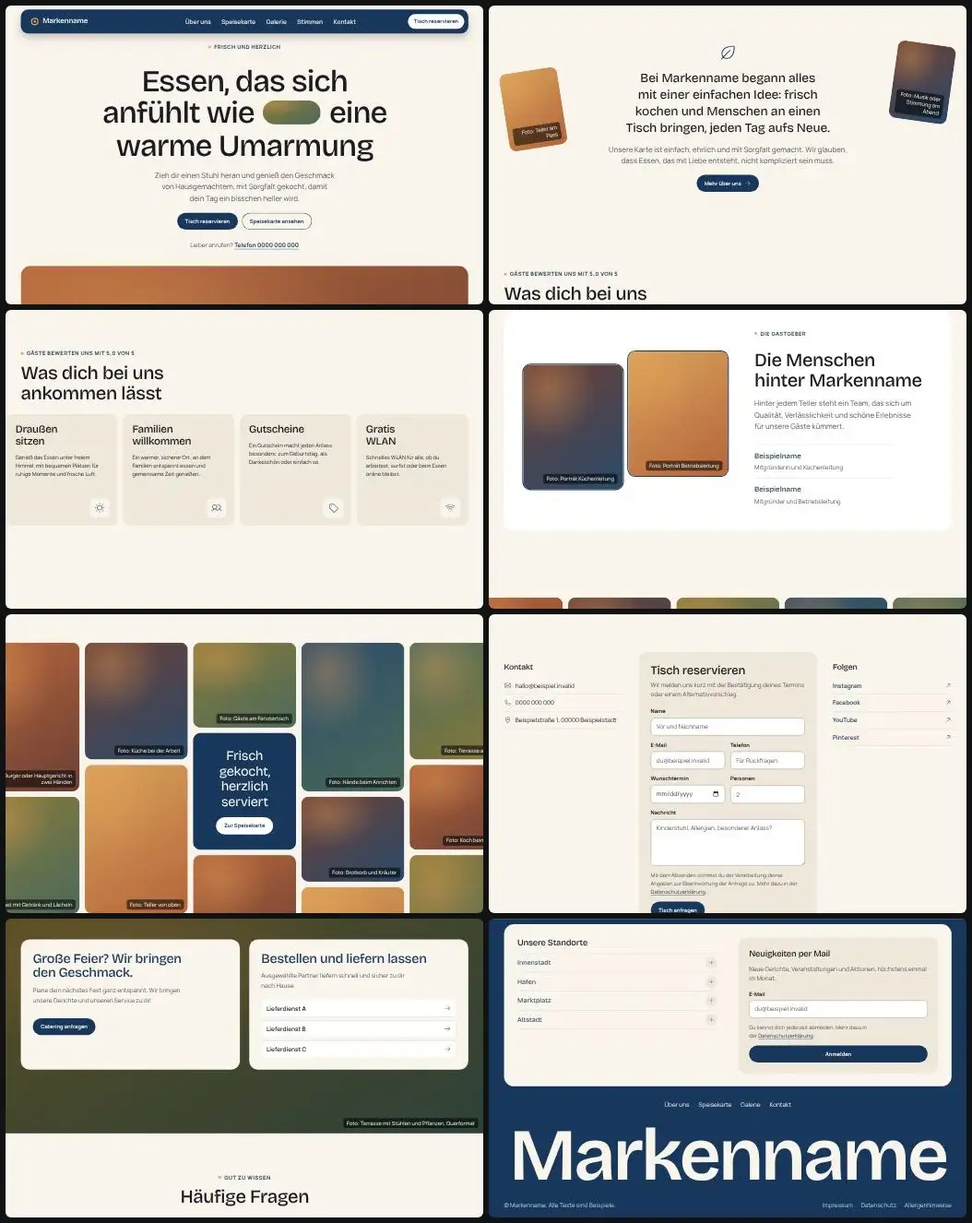
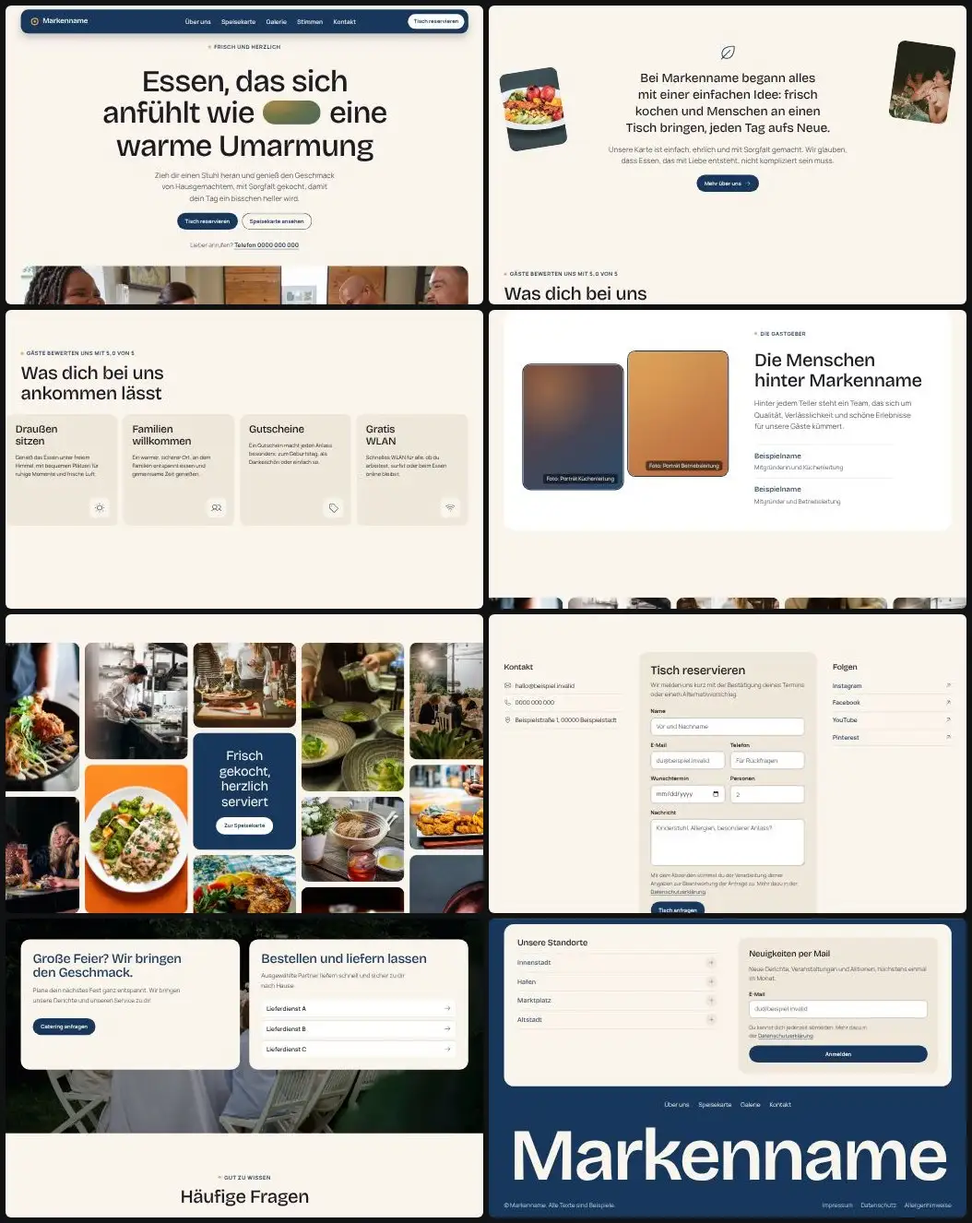
Bibliothek t68: Beispielfotos (Unsplash) eingebaut, Vorschaubilder neu erzeugt
Claude-Session: https://claude.ai/code/session_01DoGuL1bwF3ewggMgZ4Cpvd

diff --git a/skills/webdesign-conversion/assets/vorlagen/bibliothek/t68/index.html b/skills/webdesign-conversion/assets/vorlagen/bibliothek/t68/index.html
@@ -70,7 +70,7 @@
     </div>
     <div class="buehne" data-fortschritt>
       <div class="buehne__klemme">
-        <div class="bild buehne__medium bild--a" data-platzhalter="Foto oder kurzes Video: Gäste lachen am gedeckten Tisch, Querformat" role="img" aria-label="Platzhalter für ein Foto oder Video von Gästen am gedeckten Tisch"></div>
+        <div class="bild buehne__medium bild--a"><img src="bilder/restaurant-gaeste-holztisch.webp" width="1600" height="1067" alt="Gruppe von Gästen sitzt lachend an einem langen Holztisch beim Essen" loading="lazy" decoding="async"></div>
       </div>
     </div>
   </section>
@@ -80,12 +80,12 @@
     <div class="aroma__klemme">
       <h2 id="h-aroma" class="aroma__titel">Frisch, herzlich und mit Leidenschaft</h2>
       <div class="aroma__fotos" aria-hidden="true">
-        <div class="bild aroma__foto aroma__foto--1 bild--a" data-platzhalter="Foto: Hauptgericht in der Nahaufnahme"></div>
-        <div class="bild aroma__foto aroma__foto--2 bild--c" data-platzhalter="Foto: lachender Gast mit Getränk"></div>
-        <div class="bild aroma__foto aroma__foto--3 bild--d" data-platzhalter="Foto: Freunde beim Essen im Freien"></div>
-        <div class="bild aroma__foto aroma__foto--4 bild--b" data-platzhalter="Foto: Beilage im Korb"></div>
-        <div class="bild aroma__foto aroma__foto--5 bild--e" data-platzhalter="Foto: Essen zum Mitnehmen"></div>
-        <div class="bild aroma__foto aroma__foto--6 bild--f" data-platzhalter="Foto: Gericht in zwei Händen"></div>
+        <div class="bild aroma__foto aroma__foto--1 bild--a"><img src="bilder/restaurant-eintopf-nahaufnahme.webp" width="1000" height="667" alt="Schüssel mit warmem Eintopf in der Nahaufnahme" loading="lazy" decoding="async"></div>
+        <div class="bild aroma__foto aroma__foto--2 bild--c"><img src="bilder/restaurant-lachende-frau.webp" width="1000" height="667" alt="Lachende Frau mit einem Getränk in warmem Licht" loading="lazy" decoding="async"></div>
+        <div class="bild aroma__foto aroma__foto--3 bild--d"><img src="bilder/restaurant-tisch-draussen-oben.webp" width="1000" height="667" alt="Runder Tisch im Freien mit Tellern und Getränken von oben" loading="lazy" decoding="async"></div>
+        <div class="bild aroma__foto aroma__foto--4 bild--b"><img src="bilder/restaurant-pommes-korb.webp" width="800" height="640" alt="Korb mit Pommes auf einem dunklen Tisch" loading="lazy" decoding="async"></div>
+        <div class="bild aroma__foto aroma__foto--5 bild--e"><img src="bilder/restaurant-nachos-karton.webp" width="800" height="534" alt="Essen zum Mitnehmen in einer Pappschale" loading="lazy" decoding="async"></div>
+        <div class="bild aroma__foto aroma__foto--6 bild--f"><img src="bilder/restaurant-hand-karton.webp" width="800" height="533" alt="Hände halten eine Pappschale mit Essen" loading="lazy" decoding="async"></div>
       </div>
     </div>
   </section>
@@ -93,8 +93,8 @@
   <!-- 3. Geschichte: Zeichen, zwei Absätze, Knopf, zwei kleine gekippte Fotos am Rand -->
   <section class="sektion geschichte" id="geschichte" aria-labelledby="h-geschichte">
     <div class="wrap geschichte__innen">
-      <div class="bild geschichte__foto geschichte__foto--l bild--b" data-platzhalter="Foto: Teller am Pass" role="img" aria-label="Platzhalter für ein Foto" data-parallax="0.08"></div>
-      <div class="bild geschichte__foto geschichte__foto--r bild--e" data-platzhalter="Foto: Musik oder Stimmung am Abend" role="img" aria-label="Platzhalter für ein Foto" data-parallax="-0.06"></div>
+      <div class="bild geschichte__foto geschichte__foto--l bild--b" data-parallax="0.08"><img src="bilder/restaurant-teller-dunkel.webp" width="1000" height="667" alt="Angerichteter Teller vor dunklem Hintergrund" loading="lazy" decoding="async"></div>
+      <div class="bild geschichte__foto geschichte__foto--r bild--e" data-parallax="-0.06"><img src="bilder/restaurant-abend-stimmung.webp" width="1000" height="667" alt="Gäste sitzen abends an einem Tisch mit Gläsern" loading="lazy" decoding="async"></div>
       <div class="geschichte__text">
         <svg class="geschichte__zeichen" width="56" height="56" aria-hidden="true" focusable="false" data-zeig><use href="#i-leaf"/></svg>
         <h2 id="h-geschichte" class="geschichte__satz" data-zeig>Bei Markenname begann alles mit einer einfachen Idee: frisch kochen und Menschen an einen Tisch bringen, jeden Tag aufs Neue.</h2>
@@ -139,7 +139,7 @@
 
         <li class="gericht" data-kategorie="haupt" data-zeig>
           <article>
-            <div class="bild gericht__bild bild--a" data-platzhalter="Foto: Schmorgericht in der Pfanne" role="img" aria-label="Platzhalter für ein Foto: Geschmorte Rinderbacke">
+            <div class="bild gericht__bild bild--a"><img src="bilder/restaurant-schmorgericht-pfanne.webp" width="800" height="533" alt="Schmorgericht in einer schwarzen Pfanne" loading="lazy" decoding="async">
               <details class="zutaten"><summary>Zutaten<svg width="16" height="16" aria-hidden="true" focusable="false"><use href="#i-plus"/></svg></summary><p>Rinderbacke, Kartoffeln, Karotten, Sellerie, Rotwein, Thymian</p></details>
             </div>
             <div class="gericht__kopf"><h3>Geschmorte Rinderbacke</h3><p class="gericht__preis">21,50 €</p></div>
@@ -151,7 +151,7 @@
         </li>
         <li class="gericht" data-kategorie="haupt" data-zeig>
           <article>
-            <div class="bild gericht__bild bild--b" data-platzhalter="Foto: Lachsfilet mit Gemüse" role="img" aria-label="Platzhalter für ein Foto: Gebratener Lachs">
+            <div class="bild gericht__bild bild--b"><img src="bilder/restaurant-lachs-teller.webp" width="800" height="533" alt="Weißer Teller mit gegrilltem Lachs und Gemüse" loading="lazy" decoding="async">
               <details class="zutaten"><summary>Zutaten<svg width="16" height="16" aria-hidden="true" focusable="false"><use href="#i-plus"/></svg></summary><p>Lachsfilet, Butter, Zitrone, Saisongemüse, Kräuter</p></details>
             </div>
             <div class="gericht__kopf"><h3>Gebratener Lachs</h3><p class="gericht__preis">23,00 €</p></div>
@@ -163,7 +163,7 @@
         </li>
         <li class="gericht" data-kategorie="haupt" data-zeig>
           <article>
-            <div class="bild gericht__bild bild--c" data-platzhalter="Foto: Ofengemüse auf dem Blech" role="img" aria-label="Platzhalter für ein Foto: Ofengemüse mit Quark">
+            <div class="bild gericht__bild bild--c"><img src="bilder/restaurant-ofengemuese-blech.webp" width="800" height="533" alt="Ofengemüse auf einem Blech" loading="lazy" decoding="async">
               <details class="zutaten"><summary>Zutaten<svg width="16" height="16" aria-hidden="true" focusable="false"><use href="#i-plus"/></svg></summary><p>Kürbis, Paprika, Zucchini, Quark, Kräuter, Olivenöl</p></details>
             </div>
             <div class="gericht__kopf"><h3>Ofengemüse mit Quark</h3><p class="gericht__preis">16,50 €</p></div>
@@ -175,7 +175,7 @@
         </li>
         <li class="gericht" data-kategorie="beilage" data-zeig>
           <article>
-            <div class="bild gericht__bild bild--d" data-platzhalter="Foto: Kartoffeln im Korb" role="img" aria-label="Platzhalter für ein Foto: Ofenkartoffeln">
+            <div class="bild gericht__bild bild--d"><img src="bilder/restaurant-kartoffeln-pfanne.webp" width="800" height="534" alt="Kartoffelspalten in einer schwarzen Pfanne" loading="lazy" decoding="async">
               <details class="zutaten"><summary>Zutaten<svg width="16" height="16" aria-hidden="true" focusable="false"><use href="#i-plus"/></svg></summary><p>Kartoffeln, Rosmarin, Meersalz, Rapsöl</p></details>
             </div>
             <div class="gericht__kopf"><h3>Ofenkartoffeln</h3><p class="gericht__preis">6,50 €</p></div>
@@ -187,7 +187,7 @@
         </li>
         <li class="gericht" data-kategorie="beilage" data-zeig>
           <article>
-            <div class="bild gericht__bild bild--e" data-platzhalter="Foto: Salatschüssel von oben" role="img" aria-label="Platzhalter für ein Foto: Gemischter Salat">
+            <div class="bild gericht__bild bild--e"><img src="bilder/restaurant-salat-schuessel.webp" width="800" height="533" alt="Salatschüssel von oben" loading="lazy" decoding="async">
               <details class="zutaten"><summary>Zutaten<svg width="16" height="16" aria-hidden="true" focusable="false"><use href="#i-plus"/></svg></summary><p>Blattsalat, Gurke, Radieschen, Kerne, Senfdressing</p></details>
             </div>
             <div class="gericht__kopf"><h3>Gemischter Salat</h3><p class="gericht__preis">7,00 €</p></div>
@@ -199,7 +199,7 @@
         </li>
         <li class="gericht" data-kategorie="beilage" data-zeig>
           <article>
-            <div class="bild gericht__bild bild--f" data-platzhalter="Foto: Kroketten mit Dip" role="img" aria-label="Platzhalter für ein Foto: Kleine Krokettenplatte">
+            <div class="bild gericht__bild bild--f"><img src="bilder/restaurant-kroketten-dip.webp" width="800" height="533" alt="Schale mit Kroketten und Dip" loading="lazy" decoding="async">
               <details class="zutaten"><summary>Zutaten<svg width="16" height="16" aria-hidden="true" focusable="false"><use href="#i-plus"/></svg></summary><p>Kartoffeln, Muskat, Semmelbrösel, Dip aus Joghurt</p></details>
             </div>
             <div class="gericht__kopf"><h3>Kleine Krokettenplatte</h3><p class="gericht__preis">8,50 €</p></div>
@@ -211,7 +211,7 @@
         </li>
         <li class="gericht" data-kategorie="getraenk" data-zeig>
           <article>
-            <div class="bild gericht__bild bild--a" data-platzhalter="Foto: Glas mit Limonade" role="img" aria-label="Platzhalter für ein Foto: Hausgemachte Limonade">
+            <div class="bild gericht__bild bild--a"><img src="bilder/restaurant-limonade-zitronen.webp" width="800" height="533" alt="Glas Limonade mit Zitronenscheiben" loading="lazy" decoding="async">
               <details class="zutaten"><summary>Zutaten<svg width="16" height="16" aria-hidden="true" focusable="false"><use href="#i-plus"/></svg></summary><p>Zitrone, Minze, Zucker, Sprudelwasser</p></details>
             </div>
             <div class="gericht__kopf"><h3>Hausgemachte Limonade</h3><p class="gericht__preis">4,80 €</p></div>
@@ -223,7 +223,7 @@
         </li>
         <li class="gericht" data-kategorie="getraenk" data-zeig>
           <article>
-            <div class="bild gericht__bild bild--b" data-platzhalter="Foto: Teekanne und Glas" role="img" aria-label="Platzhalter für ein Foto: Frischer Minztee">
+            <div class="bild gericht__bild bild--b"><img src="bilder/restaurant-teekanne-glaeser.webp" width="800" height="450" alt="Teekanne und Gläser auf einem Tablett" loading="lazy" decoding="async">
               <details class="zutaten"><summary>Zutaten<svg width="16" height="16" aria-hidden="true" focusable="false"><use href="#i-plus"/></svg></summary><p>Frische Minze, heißes Wasser, Honig</p></details>
             </div>
             <div class="gericht__kopf"><h3>Frischer Minztee</h3><p class="gericht__preis">3,90 €</p></div>
@@ -235,7 +235,7 @@
         </li>
         <li class="gericht" data-kategorie="getraenk" data-zeig>
           <article>
-            <div class="bild gericht__bild bild--c" data-platzhalter="Foto: Gläser mit Schorle" role="img" aria-label="Platzhalter für ein Foto: Fruchtschorle">
+            <div class="bild gericht__bild bild--c"><img src="bilder/restaurant-getraenk-minze.webp" width="800" height="450" alt="Gekühltes Getränk mit Minze auf Holz" loading="lazy" decoding="async">
               <details class="zutaten"><summary>Zutaten<svg width="16" height="16" aria-hidden="true" focusable="false"><use href="#i-plus"/></svg></summary><p>Fruchtsaft der Saison, Sprudelwasser, Eis</p></details>
             </div>
             <div class="gericht__kopf"><h3>Fruchtschorle</h3><p class="gericht__preis">4,20 €</p></div>
@@ -275,29 +275,29 @@
     <div class="galerie__raster">
 
         <div class="galerie__spalte" data-parallax="0.1" data-nur-gross>
-          <div class="bild galerie__kachel galerie__kachel--tief bild--a" data-platzhalter="Foto: Burger oder Hauptgericht in zwei Händen" role="img" aria-label="Platzhalter für ein Foto"></div>
-          <div class="bild galerie__kachel galerie__kachel--mittel bild--c" data-platzhalter="Foto: Gast mit Getränk und Lächeln" role="img" aria-label="Platzhalter für ein Foto"></div>
-          <div class="bild galerie__kachel galerie__kachel--flach bild--d" data-platzhalter="Foto: Beilagen im Korb" role="img" aria-label="Platzhalter für ein Foto"></div>
+          <div class="bild galerie__kachel galerie__kachel--tief bild--a"><img src="bilder/restaurant-gericht-haende.webp" width="1000" height="667" alt="Hände halten eine dunkle Schale mit angerichtetem Gericht" loading="lazy" decoding="async"></div>
+          <div class="bild galerie__kachel galerie__kachel--mittel bild--c"><img src="bilder/restaurant-frauen-getraenke.webp" width="1000" height="750" alt="Frauen lachen am Tisch mit Getränken" loading="lazy" decoding="async"></div>
+          <div class="bild galerie__kachel galerie__kachel--flach bild--d"><img src="bilder/restaurant-beilagen-korb.webp" width="1000" height="667" alt="Korb mit Beilagen" loading="lazy" decoding="async"></div>
         </div>
         <div class="galerie__spalte" data-parallax="-0.07" >
-          <div class="bild galerie__kachel galerie__kachel--mittel bild--e" data-platzhalter="Foto: Küche bei der Arbeit" role="img" aria-label="Platzhalter für ein Foto"></div>
-          <div class="bild galerie__kachel galerie__kachel--tief bild--b" data-platzhalter="Foto: Teller von oben" role="img" aria-label="Platzhalter für ein Foto"></div>
-          <div class="bild galerie__kachel galerie__kachel--flach bild--f" data-platzhalter="Foto: Getränke auf dem Holztisch" role="img" aria-label="Platzhalter für ein Foto"></div>
+          <div class="bild galerie__kachel galerie__kachel--mittel bild--e"><img src="bilder/restaurant-kueche-arbeit.webp" width="1000" height="563" alt="Koch arbeitet in einer Restaurantküche" loading="lazy" decoding="async"></div>
+          <div class="bild galerie__kachel galerie__kachel--tief bild--b"><img src="bilder/restaurant-lachs-oben.webp" width="1000" height="667" alt="Lachsfilet auf Quinoa von oben" loading="lazy" decoding="async"></div>
+          <div class="bild galerie__kachel galerie__kachel--flach bild--f"><img src="bilder/restaurant-getraenk-holzbrett.webp" width="1000" height="668" alt="Blaues Getränk mit Limette auf einem Holzbrett" loading="lazy" decoding="async"></div>
         </div>
         <div class="galerie__spalte" data-parallax="0.05" >
-          <div class="bild galerie__kachel galerie__kachel--flach bild--c" data-platzhalter="Foto: Gäste am Fenstertisch" role="img" aria-label="Platzhalter für ein Foto"></div>
+          <div class="bild galerie__kachel galerie__kachel--flach bild--c"><img src="bilder/restaurant-gaeste-tisch-essen.webp" width="1000" height="667" alt="Gäste sitzen am Tisch mit Essen" loading="lazy" decoding="async"></div>
           <div class="galerie__text"><p class="galerie__satz">Frisch gekocht, herzlich serviert</p><a class="knopf knopf--hell" href="#speisekarte">Zur Speisekarte</a></div>
-          <div class="bild galerie__kachel galerie__kachel--mittel bild--a" data-platzhalter="Foto: Gericht in der Nahaufnahme" role="img" aria-label="Platzhalter für ein Foto"></div>
+          <div class="bild galerie__kachel galerie__kachel--mittel bild--a"><img src="bilder/restaurant-lachs-karotuch.webp" width="1000" height="667" alt="Teller mit Lachs auf kariertem Tuch" loading="lazy" decoding="async"></div>
         </div>
         <div class="galerie__spalte" data-parallax="-0.1" >
-          <div class="bild galerie__kachel galerie__kachel--tief bild--d" data-platzhalter="Foto: Hände beim Anrichten" role="img" aria-label="Platzhalter für ein Foto"></div>
-          <div class="bild galerie__kachel galerie__kachel--flach bild--e" data-platzhalter="Foto: Brotkorb und Kräuter" role="img" aria-label="Platzhalter für ein Foto"></div>
-          <div class="bild galerie__kachel galerie__kachel--mittel bild--b" data-platzhalter="Foto: Dessert mit Beeren" role="img" aria-label="Platzhalter für ein Foto"></div>
+          <div class="bild galerie__kachel galerie__kachel--tief bild--d"><img src="bilder/restaurant-anrichten-haende.webp" width="1000" height="667" alt="Hände richten Vorspeisen in Schalen an" loading="lazy" decoding="async"></div>
+          <div class="bild galerie__kachel galerie__kachel--flach bild--e"><img src="bilder/restaurant-brotkorb-kraeuter.webp" width="1000" height="668" alt="Brotkorb mit Blumen und Öl auf einem Holztisch" loading="lazy" decoding="async"></div>
+          <div class="bild galerie__kachel galerie__kachel--mittel bild--b"><img src="bilder/restaurant-dessert-himbeeren.webp" width="1000" height="667" alt="Dessert mit Himbeeren auf einem weißen Teller" loading="lazy" decoding="async"></div>
         </div>
         <div class="galerie__spalte" data-parallax="0.08" data-nur-gross>
-          <div class="bild galerie__kachel galerie__kachel--mittel bild--f" data-platzhalter="Foto: Terrasse am Abend" role="img" aria-label="Platzhalter für ein Foto"></div>
-          <div class="bild galerie__kachel galerie__kachel--flach bild--a" data-platzhalter="Foto: Koch beim Würzen" role="img" aria-label="Platzhalter für ein Foto"></div>
-          <div class="bild galerie__kachel galerie__kachel--tief bild--c" data-platzhalter="Foto: Getränk mit Eis" role="img" aria-label="Platzhalter für ein Foto"></div>
+          <div class="bild galerie__kachel galerie__kachel--mittel bild--f"><img src="bilder/restaurant-terrasse-abend.webp" width="1000" height="667" alt="Terrasse am Abend mit Lichtern und Gästen" loading="lazy" decoding="async"></div>
+          <div class="bild galerie__kachel galerie__kachel--flach bild--a"><img src="bilder/restaurant-wuerzen-hand.webp" width="1000" height="667" alt="Hand würzt ein Gericht mit der Pfeffermühle" loading="lazy" decoding="async"></div>
+          <div class="bild galerie__kachel galerie__kachel--tief bild--c"><img src="bilder/restaurant-getraenk-eis.webp" width="1000" height="715" alt="Glas mit Eis und Limette" loading="lazy" decoding="async"></div>
         </div>
     </div>
   </section>
@@ -319,7 +319,7 @@
         <ul class="stimmen__spur" data-reiter-spur data-beispiel tabindex="0" aria-label="Stimmen, seitlich wischbar">
 
           <li class="stimme"><p class="stimme__wert"><span class="stern"><svg width="22" height="22" aria-hidden="true" focusable="false"><use href="#i-star"/></svg></span>4,8</p><blockquote><p>Alles schmeckte frisch und ausgewogen. Man merkt, dass in jedem Gericht Sorgfalt steckt.</p></blockquote><p class="stimme__name"><b>Beispielname,</b> <span>Stammgast</span></p></li>
-          <li class="stimme stimme--bild"><div class="bild stimme__bild bild--d" data-platzhalter="Foto: Gäste am Tisch im Lokal" role="img" aria-label="Platzhalter für ein Foto von Gästen am Tisch"></div></li>
+          <li class="stimme stimme--bild"><div class="bild stimme__bild bild--d"><img src="bilder/restaurant-gruppe-mittag.webp" width="1000" height="667" alt="Gruppe beim Mittagessen an einem Holztisch" loading="lazy" decoding="async"></div></li>
           <li class="stimme"><p class="stimme__wert"><span class="stern"><svg width="22" height="22" aria-hidden="true" focusable="false"><use href="#i-star"/></svg></span>4,9</p><blockquote><p>Das Essen war verlässlich, wohltuend und besser als gedacht. Ein guter Ort zum Ankommen.</p></blockquote><p class="stimme__name"><b>Beispielname,</b> <span>Gast aus der Nachbarschaft</span></p></li>
           <li class="stimme"><p class="stimme__wert"><span class="stern"><svg width="22" height="22" aria-hidden="true" focusable="false"><use href="#i-star"/></svg></span>4,7</p><blockquote><p>Freundlicher Service, kurze Wartezeit und ein Tisch, an dem wir sofort gut saßen.</p></blockquote><p class="stimme__name"><b>Beispielname,</b> <span>Familie mit zwei Kindern</span></p></li>
         </ul>
@@ -367,7 +367,7 @@
 
   <!-- 10. Zwei Angebote auf einem Vollbild: Catering und Lieferung -->
   <section class="angebote" aria-labelledby="h-catering">
-    <div class="bild angebote__bild bild--c" data-platzhalter="Foto: Terrasse mit Stühlen und Pflanzen, Querformat" role="img" aria-label="Platzhalter für ein Foto der Terrasse"></div>
+    <div class="bild angebote__bild bild--c"><img src="bilder/restaurant-garten-tisch.webp" width="1000" height="667" alt="Gartentisch mit Stühlen und weißer Tischdecke" loading="lazy" decoding="async"></div>
     <div class="wrap angebote__karten">
       <div class="angebot" data-zeig>
         <h2 id="h-catering">Große Feier? Wir bringen den Geschmack.</h2>

diff --git a/skills/webdesign-conversion/assets/vorlagen/bibliothek/t68/BILDER.md b/skills/webdesign-conversion/assets/vorlagen/bibliothek/t68/BILDER.md
@@ -1,0 +1,50 @@
+# Bilder t68
+
+Alle Fotos von Unsplash, abgerufen am 25.11.2026. Titel und Lizenz stehen so auf der Seite des Fotos (Titel von Unsplash automatisch vergeben), als Fotograf ist das Unsplash Profil angegeben, weil die Seite den Namen nur als Profillink zeigte. Lizenz ist jeweils die Unsplash Lizenz.
+
+| Datei | Platz | Foto Titel | Fotograf (Profil) | Seite | Lizenz | Abruf |
+|---|---|---|---|---|---|---|
+| restaurant-gaeste-holztisch.webp.webp | Bühne | Eine Gruppe von Menschen, die um einen Tisch sitzen und Essen essen | @sweetlifediabetes | https://unsplash.com/photos/OxkxluMeAGs | Unsplash Lizenz | 25.11.2026 |
+| restaurant-eintopf-nahaufnahme.webp.webp | Aroma 1 | eine Schüssel mit Essen | @dpezto | https://unsplash.com/photos/71gD9JoiPQY | Unsplash Lizenz | 25.11.2026 |
+| restaurant-lachende-frau.webp.webp | Aroma 2 | Frau lacht vor Freude bei einer Veranstaltung | @1hundredimages | https://unsplash.com/photos/Ve7NkHmUJ3U | Unsplash Lizenz | 25.11.2026 |
+| restaurant-tisch-draussen-oben.webp.webp | Aroma 3 | Vier Personen essen an einem gefliesten Tisch | @queenslandaustralia | https://unsplash.com/photos/-RwR1l1w638 | Unsplash Lizenz | 25.11.2026 |
+| restaurant-pommes-korb.webp.webp | Aroma 4 | Ein Korb Pommes Frites sitzt auf einem Holztisch | @mitchel3uo | https://unsplash.com/photos/ChXHveqrb28 | Unsplash Lizenz | 25.11.2026 |
+| restaurant-nachos-karton.webp.webp | Aroma 5 | braune und grüne Lebensmittel auf braunem Karton | @fifernando | https://unsplash.com/photos/DKWZrV0Ty14 | Unsplash Lizenz | 25.11.2026 |
+| restaurant-hand-karton.webp.webp | Aroma 6 | Person mit braunem Karton | @commonboxturtle | https://unsplash.com/photos/FJ37gnt6g50 | Unsplash Lizenz | 25.11.2026 |
+| restaurant-teller-dunkel.webp.webp | Geschichte 1 | geschnittene Früchte auf weißem Keramikteller | @sammoghadam | https://unsplash.com/photos/Oxpa8sZwGNU | Unsplash Lizenz | 25.11.2026 |
+| restaurant-abend-stimmung.webp.webp | Geschichte 2 | eine Gruppe von Menschen, die um einen Tisch mit Weingläsern sitzen | @noorvoux | https://unsplash.com/photos/Y8gXPB8Mq98 | Unsplash Lizenz | 25.11.2026 |
+| restaurant-schmorgericht-pfanne.webp.webp | Gericht Schmorgericht | Gekochtes Essen auf schwarzer Schüssel | @arturkornakov | https://unsplash.com/photos/kwJhh14nUcs | Unsplash Lizenz | 25.11.2026 |
+| restaurant-lachs-teller.webp.webp | Gericht Lachs | ein weißer Teller mit Fisch und Gemüse | @orkunorcan | https://unsplash.com/photos/3ru16c1mSsU | Unsplash Lizenz | 25.11.2026 |
+| restaurant-ofengemuese-blech.webp.webp | Gericht Ofengemüse | Gemüsesalat auf schwarzem Keramikteller | @louishansel | https://unsplash.com/photos/OGImQ11UUvQ | Unsplash Lizenz | 25.11.2026 |
+| restaurant-kartoffeln-pfanne.webp.webp | Gericht Kartoffeln | eine schwarze Pfanne gefüllt mit Kartoffeln | @enginakyurt | https://unsplash.com/photos/VflFcUICykI | Unsplash Lizenz | 25.11.2026 |
+| restaurant-salat-schuessel.webp.webp | Gericht Salat | Eine Schüssel mit Obst und Gemüse auf einem Holztisch | @foodistika | https://unsplash.com/photos/b3lTBj5ZPH4 | Unsplash Lizenz | 25.11.2026 |
+| restaurant-kroketten-dip.webp.webp | Gericht Kroketten | gebackenes Brot in weißer Keramikschale | @louishansel | https://unsplash.com/photos/qUgkp1jdjO0 | Unsplash Lizenz | 25.11.2026 |
+| restaurant-limonade-zitronen.webp.webp | Getränk Limonade | Limettensaft auf Trinkglas neben geschnittenen Früchten | @franhotchin | https://unsplash.com/photos/p5EiqkBYIEE | Unsplash Lizenz | 25.11.2026 |
+| restaurant-teekanne-glaeser.webp.webp | Getränk Tee | Glasteekanne mit Tee und Tassen auf einem Holztablett | @timwing78 | https://unsplash.com/photos/Wx_gyEoc_CA | Unsplash Lizenz | 25.11.2026 |
+| restaurant-getraenk-minze.webp.webp | Getränk Schorle | Grünes Blatt im Klarglasbecher | @tvieso | https://unsplash.com/photos/X5cBJpKa5UA | Unsplash Lizenz | 25.11.2026 |
+| restaurant-gericht-haende.webp.webp | Galerie Gericht in Händen | Eine Person, die einen Teller mit Essen hält | @negley | https://unsplash.com/photos/LFVApAEV1ok | Unsplash Lizenz | 25.11.2026 |
+| restaurant-frauen-getraenke.webp.webp | Galerie Gast mit Getränk | eine Gruppe von Menschen, die um einen Tisch | @ourwhiskyfoundation | https://unsplash.com/photos/jlXtAvGx_hg | Unsplash Lizenz | 25.11.2026 |
+| restaurant-beilagen-korb.webp.webp | Galerie Beilagen | Schwarzbrot auf Edelstahlkorb | @enginakyurt | https://unsplash.com/photos/v8oJfgecSJo | Unsplash Lizenz | 25.11.2026 |
+| restaurant-kueche-arbeit.webp.webp | Galerie Küche | Ein Koch im weißen Kittel, der Gemüse schneidet | @novokayn | https://unsplash.com/photos/y-XZf_TNRms | Unsplash Lizenz | 25.11.2026 |
+| restaurant-lachs-oben.webp.webp | Galerie Teller von oben | Ein Lachsfilet mit Kräutern auf Quinoa | @ellaolsson | https://unsplash.com/photos/mmnKI8kMxpc | Unsplash Lizenz | 25.11.2026 |
+| restaurant-getraenk-holzbrett.webp.webp | Galerie Getränke | ein blaues Getränk mit einer Limettenscheibe | @sastravila | https://unsplash.com/photos/2QHNFHxw38A | Unsplash Lizenz | 25.11.2026 |
+| restaurant-gaeste-tisch-essen.webp.webp | Galerie Gäste | two woman standing beside woman sitting in front | @kchance8 | https://unsplash.com/photos/ZrhtQyGFG6s | Unsplash Lizenz | 25.11.2026 |
+| restaurant-lachs-karotuch.webp.webp | Galerie Nahaufnahme | ein Teller mit Essen | @kostiantynvierkieiev | https://unsplash.com/photos/zjwweWzVkFQ | Unsplash Lizenz | 25.11.2026 |
+| restaurant-anrichten-haende.webp.webp | Galerie Anrichten | Ein Koch bereitet Speisen in einer Küche zu | @hendrikmorkel | https://unsplash.com/photos/DxO74ROLieI | Unsplash Lizenz | 25.11.2026 |
+| restaurant-brotkorb-kraeuter.webp.webp | Galerie Brotkorb | gekochtes Essen auf Schüssel neben Blumen | @meganmarkham | https://unsplash.com/photos/gs_Ic_A7I1E | Unsplash Lizenz | 25.11.2026 |
+| restaurant-dessert-himbeeren.webp.webp | Galerie Dessert | Dessert mit roten Beeren auf dem Teller | @mantra_media_ltd | https://unsplash.com/photos/W7b8Sqb7PG8 | Unsplash Lizenz | 25.11.2026 |
+| restaurant-terrasse-abend.webp.webp | Galerie Terrasse | Menschen, die auf Stühlen im Restaurant sitzen | @gabiontheroad | https://unsplash.com/photos/O7ZMSQz6ink | Unsplash Lizenz | 25.11.2026 |
+| restaurant-wuerzen-hand.webp.webp | Galerie Würzen | eine Person, die ein Getränk in ein Glas gießt | @properqualityshandis | https://unsplash.com/photos/Fy0nAHpvFgg | Unsplash Lizenz | 25.11.2026 |
+| restaurant-getraenk-eis.webp.webp | Galerie Getränk mit Eis | gefülltes klares Steinglas mit Eis | @picoftasty | https://unsplash.com/photos/nqX0Iv-j3zg | Unsplash Lizenz | 25.11.2026 |
+| restaurant-gruppe-mittag.webp.webp | Stimmen | Eine Gruppe von Menschen, die um einen Tisch sitzen | @sweetlifediabetes | https://unsplash.com/photos/sQ3r1oIsaBY | Unsplash Lizenz | 25.11.2026 |
+| restaurant-garten-tisch.webp.webp | Angebote | Menschen, die an einem Außentisch sitzen | @vlmrv | https://unsplash.com/photos/qSWpTzl0too | Unsplash Lizenz | 25.11.2026 |
+
+## Hinweise
+
+* Titel der Fotos passen teils nicht zum Bild (Unsplash Titel), der Alt Text beschreibt das Sichtbare.
+* Personen nur als Stimmung, keine echten Gäste oder Mitarbeitenden.
+* Motive wiederholen sich bewusst nicht innerhalb der Seite, wohl aber über Vorlagen hinweg.
+
+## Offen
+
+* Porträt Küchenleitung und Betriebsleitung (Team): bleiben Platzhalter, keine Personen als Mitarbeitende.
